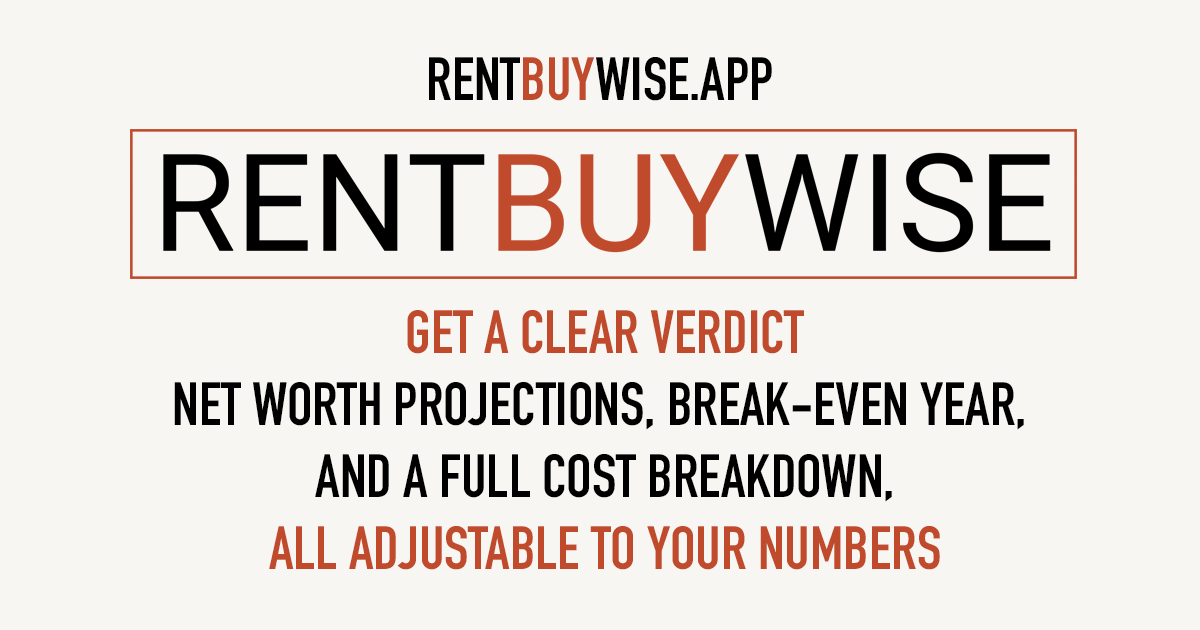
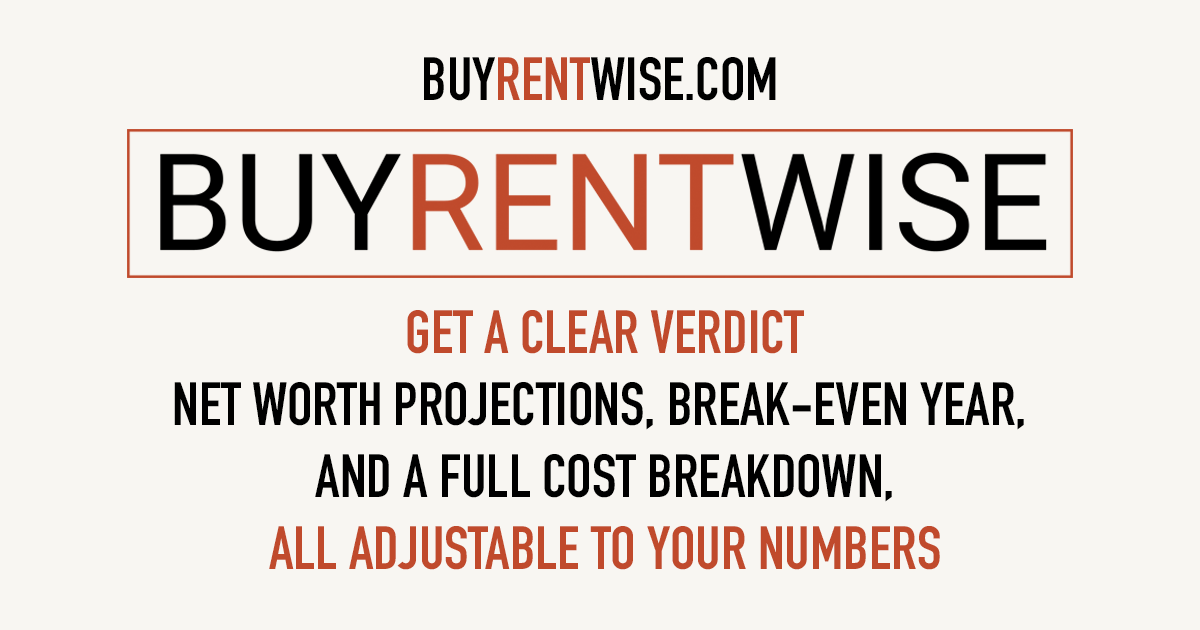
app to com

Changed region(s): [[0.0925, 0.2111, 0.8942, 0.4524], [0.3392, 0.0905, 0.6475, 0.181]]

diff --git a/src/ScrollToTop.jsx b/src/ScrollToTop.jsx
@@ -1,0 +1,22 @@
+import { useLayoutEffect } from "react";
+import { useLocation } from "react-router-dom";
+
+const DEFAULT_TITLE = "Rent vs Buy Calculator 2026 — RentBuyWise.com";
+
+const ROUTE_TITLE = {
+  "/": DEFAULT_TITLE,
+  "/disclaimer": "Disclaimer — RentBuyWise.com",
+  "/privacy-policy": "Privacy Policy — RentBuyWise.com",
+  "/terms-of-use": "Terms of Use — RentBuyWise.com",
+};
+
+export default function ScrollToTop() {
+  const { pathname } = useLocation();
+
+  useLayoutEffect(() => {
+    window.scrollTo(0, 0);
+    document.title = ROUTE_TITLE[pathname] ?? DEFAULT_TITLE;
+  }, [pathname]);
+
+  return null;
+}

diff --git a/index.html b/index.html
@@ -5,20 +5,20 @@
     <meta name="viewport" content="width=device-width, initial-scale=1.0" />
 
     <!-- Primary meta -->
-    <title>Rent vs Buy Calculator 2026 — RentBuyWise.app</title>
+    <title>Rent vs Buy Calculator 2026 — RentBuyWise.com</title>
     <meta name="description" content="Free rent vs buy calculator. Enter your home price, rent, mortgage rate, and time horizon to get an honest, personalised verdict on whether buying or renting makes you wealthier — with full net worth projections." />
     <meta name="keywords" content="rent vs buy calculator, should I rent or buy, rent or buy 2026, home buying calculator, mortgage vs renting, real estate calculator, net worth calculator, break-even calculator" />
     <meta name="author" content="RentBuyWise" />
     <meta name="robots" content="index, follow" />
-    <link rel="canonical" href="https://rentbuywise.app/" />
+    <link rel="canonical" href="https://rentbuywise.com/" />
 
     <!-- Open Graph -->
     <meta property="og:type" content="website" />
-    <meta property="og:url" content="https://rentbuywise.app/" />
+    <meta property="og:url" content="https://rentbuywise.com/" />
     <meta property="og:site_name" content="RentBuyWise" />
-    <meta property="og:title" content="Rent vs Buy Calculator 2026 — RentBuyWise.app" />
+    <meta property="og:title" content="Rent vs Buy Calculator 2026 — RentBuyWise.com" />
     <meta property="og:description" content="An honest, personalised rent vs buy calculator. Get a clear verdict: net worth projections, break-even year, and a full cost breakdown — all adjustable to your numbers." />
-    <meta property="og:image" content="https://rentbuywise.app/og-image.png" />
+    <meta property="og:image" content="https://rentbuywise.com/og-image.png" />
     <meta property="og:image:width" content="1200" />
     <meta property="og:image:height" content="630" />
     <meta property="og:image:alt" content="RentBuyWise — Rent vs Buy Calculator" />
@@ -27,16 +27,16 @@
     <!-- Twitter -->
     <meta name="twitter:card" content="summary_large_image" />
     <meta name="twitter:site" content="@rentbuywise" />
-    <meta name="twitter:title" content="Rent vs Buy Calculator 2026 — RentBuyWise.app" />
+    <meta name="twitter:title" content="Rent vs Buy Calculator 2026 — RentBuyWise.com" />
     <meta name="twitter:description" content="An honest, personalised rent vs buy calculator. Net worth projections, break-even year, full cost breakdown." />
-    <meta name="twitter:image" content="https://rentbuywise.app/og-image.png" />
+    <meta name="twitter:image" content="https://rentbuywise.com/og-image.png" />
 
     <script type="application/ld+json">
     {
       "@context": "https://schema.org",
       "@type": "WebApplication",
       "name": "RentBuyWise — Rent vs Buy Calculator",
-      "url": "https://rentbuywise.app/",
+      "url": "https://rentbuywise.com/",
       "description": "Free rent vs buy calculator that gives a personalised verdict with net worth projections, a break-even year, and a full cost breakdown. Adjust home price, mortgage rate, rent, appreciation, and more.",
       "applicationCategory": "FinanceApplication",
       "operatingSystem": "Any",
@@ -48,7 +48,7 @@
       "author": {
         "@type": "Organization",
         "name": "RentBuyWise",
-        "url": "https://rentbuywise.app/"
+        "url": "https://rentbuywise.com/"
       },
       "keywords": "rent vs buy, home buying calculator, mortgage calculator, real estate decision tool"
     }

diff --git a/src/TermsOfUse.jsx b/src/TermsOfUse.jsx
@@ -53,10 +53,10 @@ export default function TermsOfUsePage() {
         <p style={{ ...p, opacity: 0.75, fontSize: 14, marginBottom: 20 }}>Last Updated: May 5, 2026</p>
 
         <p style={p}>
-          Welcome to RentBuyWise.app. These Terms of Use (&quot;Terms&quot;) govern your access to and use of RentBuyWise, including our rent-versus-buy calculator, website, content, tools, and related
+          Welcome to RentBuyWise.com. These Terms of Use (&quot;Terms&quot;) govern your access to and use of RentBuyWise, including our rent-versus-buy calculator, website, content, tools, and related
           services.
         </p>
-        <p style={p}>By using RentBuyWise.app, you agree to these Terms. If you do not agree with these Terms, please do not use the website.</p>
+        <p style={p}>By using RentBuyWise.com, you agree to these Terms. If you do not agree with these Terms, please do not use the website.</p>
 
         <h2 style={h2}>1. About RentBuyWise</h2>
         <p style={p}>RentBuyWise is an informational web application designed to help users compare the estimated financial impact of renting versus buying a home.</p>
@@ -69,7 +69,7 @@ export default function TermsOfUsePage() {
         <h2 style={h2}>2. No Financial, Legal, Tax, Mortgage, Investment, or Real Estate Advice</h2>
         <p style={p}>RentBuyWise does not provide financial, legal, tax, mortgage, investment, insurance, or real estate advice.</p>
         <p style={p}>
-          The information and calculator results provided on RentBuyWise.app are estimates only and should not be relied on as professional advice. Your actual costs, mortgage terms, tax obligations,
+          The information and calculator results provided on RentBuyWise.com are estimates only and should not be relied on as professional advice. Your actual costs, mortgage terms, tax obligations,
           insurance costs, property value, market conditions, and personal financial situation may vary significantly.
         </p>
         <p style={p}>
@@ -121,7 +121,7 @@ export default function TermsOfUsePage() {
 
         <h2 style={h2}>6. Intellectual Property</h2>
         <p style={p}>
-          All content on RentBuyWise.app, including the website design, text, graphics, logo, calculator structure, layout, branding, and other materials, is owned by RentBuyWise or used with
+          All content on RentBuyWise.com, including the website design, text, graphics, logo, calculator structure, layout, branding, and other materials, is owned by RentBuyWise or used with
           permission.
         </p>
         <p style={p}>
@@ -159,7 +159,7 @@ export default function TermsOfUsePage() {
         <p style={p}>
           Privacy Policy:{" "}
           <Link to="/privacy-policy" style={{ color: ACCENT, fontWeight: 600 }}>
-            RentBuyWise.app/privacy-policy
+            RentBuyWise.com/privacy-policy
           </Link>
         </p>
 
@@ -222,7 +222,7 @@ export default function TermsOfUsePage() {
         <p style={p}>
           We may update these Terms from time to time. When we make changes, we will update the &quot;Last Updated&quot; date at the top of this page.
         </p>
-        <p style={p}>Your continued use of RentBuyWise.app after updated Terms are posted means you accept the revised Terms.</p>
+        <p style={p}>Your continued use of RentBuyWise.com after updated Terms are posted means you accept the revised Terms.</p>
 
         <h2 style={h2}>15. Termination</h2>
         <p style={p}>
@@ -234,7 +234,7 @@ export default function TermsOfUsePage() {
           These Terms are governed by the laws of the State of California, without regard to conflict of law principles.
         </p>
         <p style={p}>
-          Any disputes related to these Terms or RentBuyWise.app shall be handled in the state and federal courts located in California, unless otherwise required by law.
+          Any disputes related to these Terms or RentBuyWise.com shall be handled in the state and federal courts located in California, unless otherwise required by law.
         </p>
 
         <h2 style={{ ...h2, marginBottom: 0 }}>17. Contact Us</h2>
@@ -243,8 +243,8 @@ export default function TermsOfUsePage() {
           <strong>RentBuyWise</strong>
           <br />
           Website:{" "}
-          <a href="https://RentBuyWise.app" style={{ color: ACCENT, fontWeight: 600 }}>
-            RentBuyWise.app
+          <a href="https://rentbuywise.com" style={{ color: ACCENT, fontWeight: 600 }}>
+            RentBuyWise.com
           </a>
           <br />
           Email:{" "}

diff --git a/src/PrivacyPolicy.jsx b/src/PrivacyPolicy.jsx
@@ -54,10 +54,10 @@ export default function PrivacyPolicyPage() {
         <p style={{ ...p, opacity: 0.75, fontSize: 14, marginBottom: 20 }}>Last Updated: May 5, 2026</p>
 
         <p style={p}>
-          RentBuyWise (&quot;we,&quot; &quot;our,&quot; or &quot;us&quot;) operates RentBuyWise.app, a rent-versus-buy calculator and informational web application.
+          RentBuyWise (&quot;we,&quot; &quot;our,&quot; or &quot;us&quot;) operates RentBuyWise.com, a rent-versus-buy calculator and informational web application.
         </p>
         <p style={p}>
-          This Privacy Policy explains how we collect, use, store, and protect information when you use RentBuyWise.app. By using our website or calculator, you agree to the practices described in this
+          This Privacy Policy explains how we collect, use, store, and protect information when you use RentBuyWise.com. By using our website or calculator, you agree to the practices described in this
           Privacy Policy.
         </p>
 
@@ -97,7 +97,7 @@ export default function PrivacyPolicyPage() {
         <p style={p}>This information may include your name, email address, message content, and any other information you choose to provide.</p>
 
         <h3 style={h3}>Automatically Collected Information</h3>
-        <p style={p}>When you visit RentBuyWise.app, certain information may be collected automatically, such as:</p>
+        <p style={p}>When you visit RentBuyWise.com, certain information may be collected automatically, such as:</p>
         <ul style={ul}>
           <li style={{ marginBottom: 6 }}>IP address</li>
           <li style={{ marginBottom: 6 }}>Browser type</li>
@@ -226,7 +226,7 @@ export default function PrivacyPolicyPage() {
           RentBuyWise is operated from the United States. If you access the website from outside the United States, your information may be processed and stored in the United States or other countries
           where our service providers operate.
         </p>
-        <p style={p}>By using RentBuyWise.app, you understand that your information may be transferred to locations outside your country of residence.</p>
+        <p style={p}>By using RentBuyWise.com, you understand that your information may be transferred to locations outside your country of residence.</p>
 
         <h2 style={h2}>11. Children&apos;s Privacy</h2>
         <p style={p}>RentBuyWise is not intended for children under the age of 13. We do not knowingly collect personal information from children under 13.</p>
@@ -251,7 +251,7 @@ export default function PrivacyPolicyPage() {
         <p style={p}>
           We may update this Privacy Policy from time to time. When we make changes, we will update the &quot;Last Updated&quot; date at the top of this page.
         </p>
-        <p style={p}>Your continued use of RentBuyWise.app after changes are posted means you accept the updated Privacy Policy.</p>
+        <p style={p}>Your continued use of RentBuyWise.com after changes are posted means you accept the updated Privacy Policy.</p>
 
         <h2 style={{ ...h2, marginBottom: 0 }}>15. Contact Us</h2>
         <p style={{ ...p, marginTop: 12 }}>
@@ -261,8 +261,8 @@ export default function PrivacyPolicyPage() {
           <strong>RentBuyWise</strong>
           <br />
           Website:{" "}
-          <a href="https://RentBuyWise.app" style={{ color: ACCENT, fontWeight: 600 }}>
-            RentBuyWise.app
+          <a href="https://rentbuywise.com" style={{ color: ACCENT, fontWeight: 600 }}>
+            RentBuyWise.com
           </a>
           <br />
           Email:{" "}

diff --git a/src/App.jsx b/src/App.jsx
@@ -3,6 +3,7 @@ import { BrowserRouter, Route, Routes } from "react-router-dom";
 import DisclaimerPage from "./Disclaimer";
 import Layout from "./Layout";
 import PrivacyPolicyPage from "./PrivacyPolicy";
+import ScrollToTop from "./ScrollToTop";
 import TermsOfUsePage from "./TermsOfUse";
 import { simulate } from "./calc";
 import { BreakdownChart, CumulativeChart, NetWorthChart, fmt$, fmt$0 } from "./charts";
@@ -388,6 +389,7 @@ export function CalculatorPage() {
 export default function App() {
   return (
     <BrowserRouter>
+      <ScrollToTop />
       <Routes>
         <Route element={<Layout />}>
           <Route path="/" element={<CalculatorPage />} />

diff --git a/src/styles.css b/src/styles.css
@@ -67,7 +67,7 @@ a:hover { color: #D7472A !important; }
   @page {
     margin: 0.5in 0.5in 0.75in;
     @bottom-center {
-      content: "rentbuywise.app  ·  Page " counter(page) " / " counter(pages);
+      content: "rentbuywise.com  ·  Page " counter(page) " / " counter(pages);
       font-family: ui-sans-serif, system-ui, -apple-system, "Segoe UI", Roboto, "Helvetica Neue", Arial, sans-serif;
       font-size: 9pt;
       color: #555;